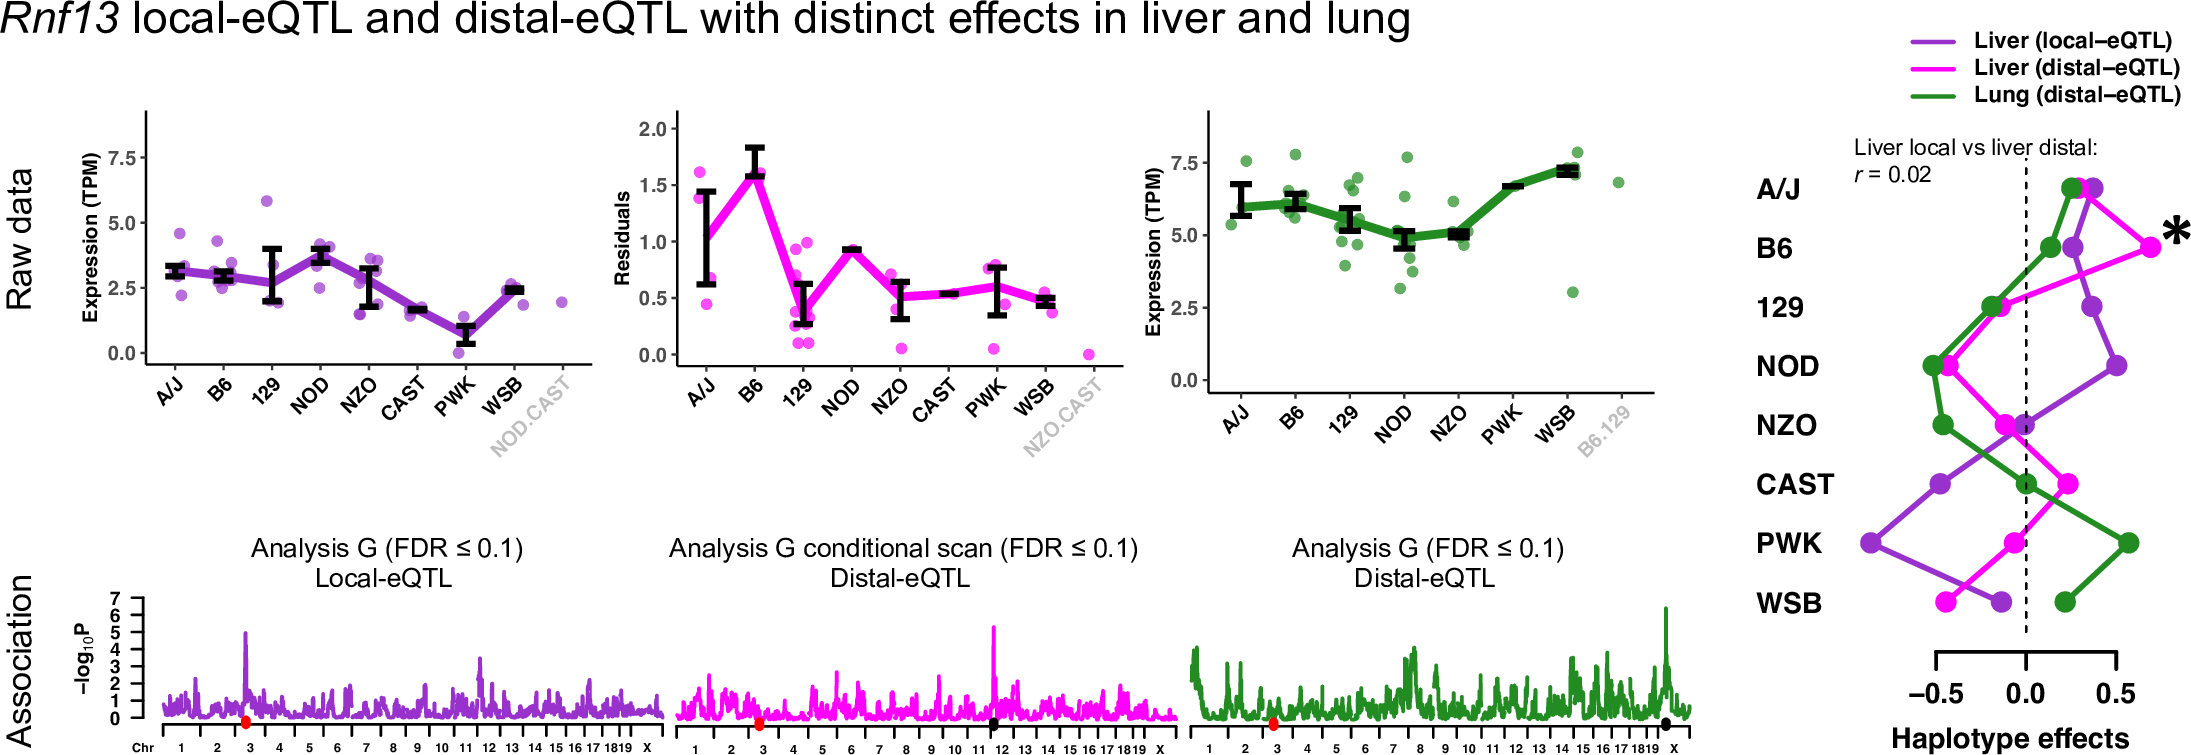
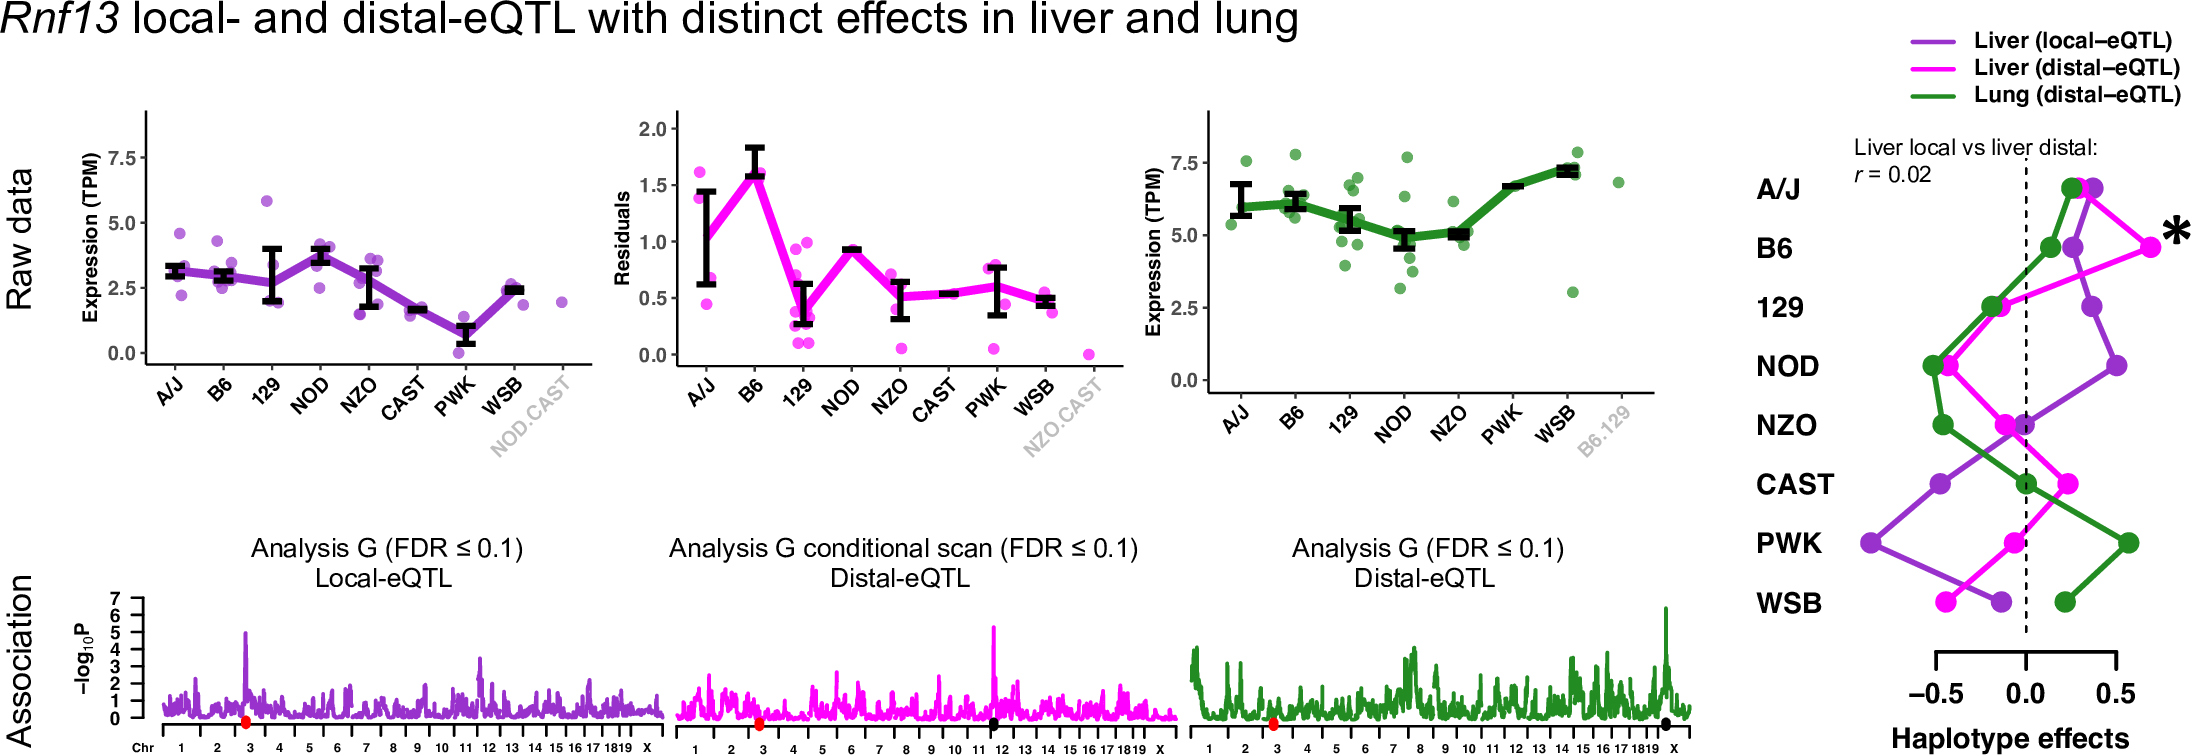
Altered Rnf13 figure

Changed region(s): [[0.0931, 0.0, 0.6518, 0.0609]]

diff --git a/multitissue_supplement_plos_revision.tex b/multitissue_supplement_plos_revision.tex
@@ -534,8 +534,8 @@ The local-eQTL consistently drove higher expression when the B6, NOD, NZO, and W
 \renewcommand{\familydefault}{\sfdefault}\normalfont
 \centering
 \includegraphics[width=\textwidth, trim={0in 0in 0in 0in}, clip]{figs/rnf13_distal_eqtl.png}
-\caption{\textbf{The gene \textit{Rnf13} has tissue-selective patterns of genetic regulation.} 
-A strong local-eQTL detected in liver. After conditioning on the local-eQTL, a statistically significant (Analysis G) distal-eQTL was detected on chromosome 12, largely driven by the B6 haplotype, distinct from the local-eQTL. The unique haplotype effect patterns for each eQTL can be seen in both the expression data, represented by interquartile bars by most likely diplotype, and the estimated effects (scaled BLUPs). On the association scans, the red tick marks the \textit{Rnf13} TSS and the black tick marks the location of distal-eQTL.
+\caption{\textbf{The gene \textit{Rnf13} has unique patterns of genetic regulation across tissues.} 
+A strong local-eQTL was detected in liver, and after conditioning on it, a statistically significant distal-eQTL was detected (Analysis G) on chromosome 12, largely driven by the B6 haplotype, distinct from the local-eQTL. The unique haplotype effect patterns for each eQTL can be seen in both the expression data, represented by interquartile bars by most likely diplotype, and the estimated effects (scaled BLUPs). The red tick marks the \textit{Rnf13} TSS and the black tick marks the location of distal-eQTL. Another strong distal-eQTL was detected on the X chromosome in lung.
 \label{fig:rnf13_distal_eqtl}}
 \end{figure*}
 

diff --git a/cc_tissue_paper_plos_genetics_revision.tex b/cc_tissue_paper_plos_genetics_revision.tex
@@ -780,8 +780,8 @@ The local-eQTL consistently drove higher expression when the B6, NOD, NZO, and W
 
 \paragraph*{S13 Fig.}
 \label{S_rnf13_distal_eqtl}
-{\bf The gene \textit{Rnf13} has tissue-selective patterns of genetic regulation.}
-A strong local-eQTL detected in liver. After conditioning on the local-eQTL, a statistically significant (Analysis G) distal-eQTL was detected on chromosome 12, largely driven by the B6 haplotype, distinct from the local-eQTL. The unique haplotype effect patterns for each eQTL can be seen in both the expression data, represented by interquartile bars by most likely diplotype, and the estimated effects (scaled BLUPs). On the association scans, the red tick marks the \textit{Rnf13} TSS and the black tick marks the location of distal-eQTL. (PDF)
+{\bf The gene \textit{Rnf13} has unique patterns of genetic regulation across tissues.} 
+A strong local-eQTL was detected in liver, and after conditioning on it, a statistically significant distal-eQTL was detected (Analysis G) on chromosome 12, largely driven by the B6 haplotype, distinct from the local-eQTL. The unique haplotype effect patterns for each eQTL can be seen in both the expression data, represented by interquartile bars by most likely diplotype, and the estimated effects (scaled BLUPs). The red tick marks the \textit{Rnf13} TSS and the black tick marks the location of distal-eQTL. Another strong distal-eQTL was detected on the X chromosome in lung. (PDF)
 
 \paragraph*{S14 Fig.}
 \label{S_colocalization}
